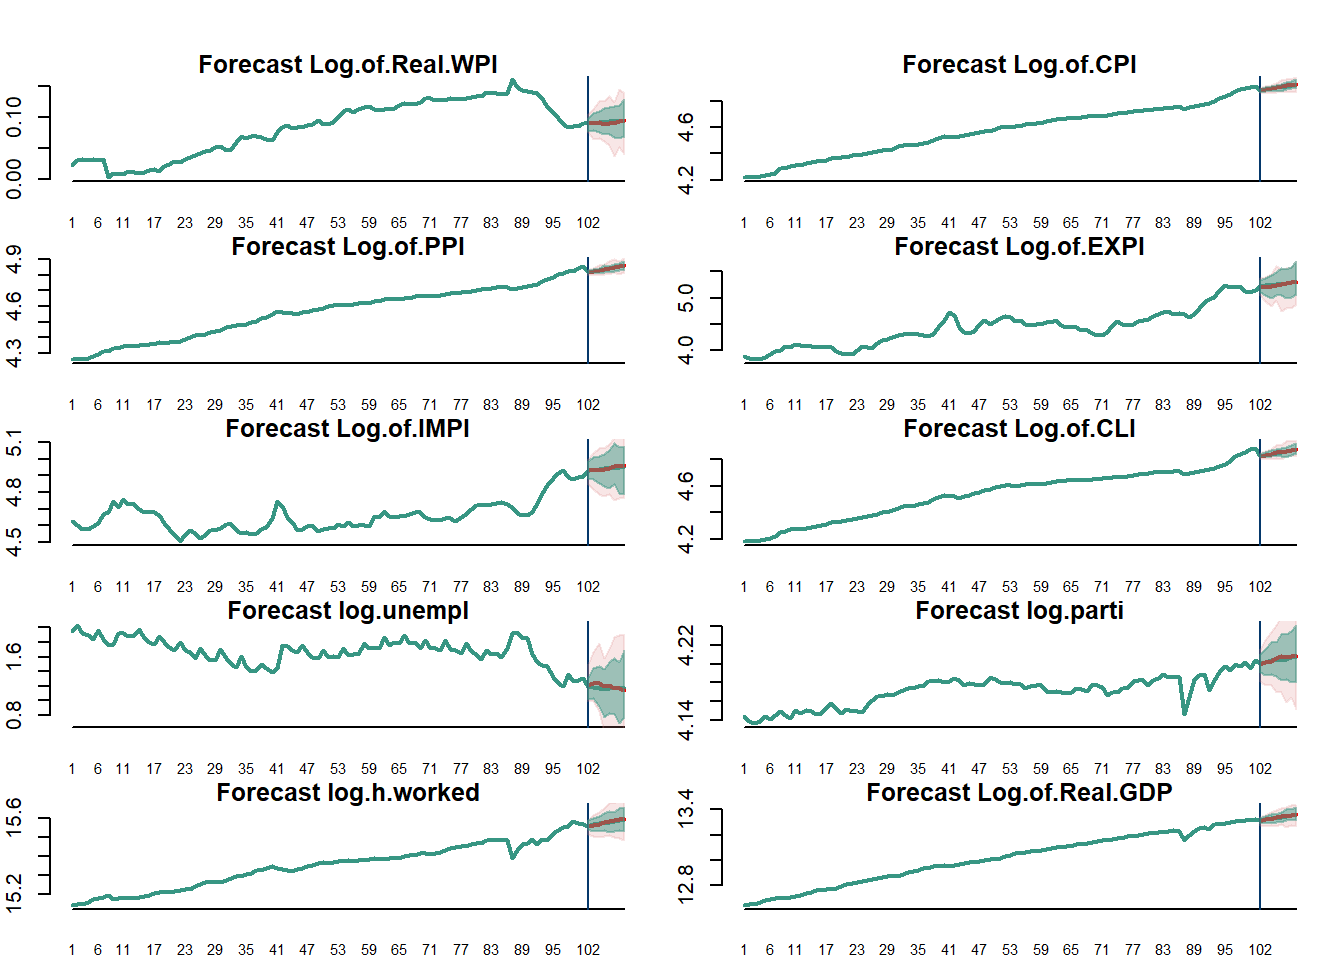
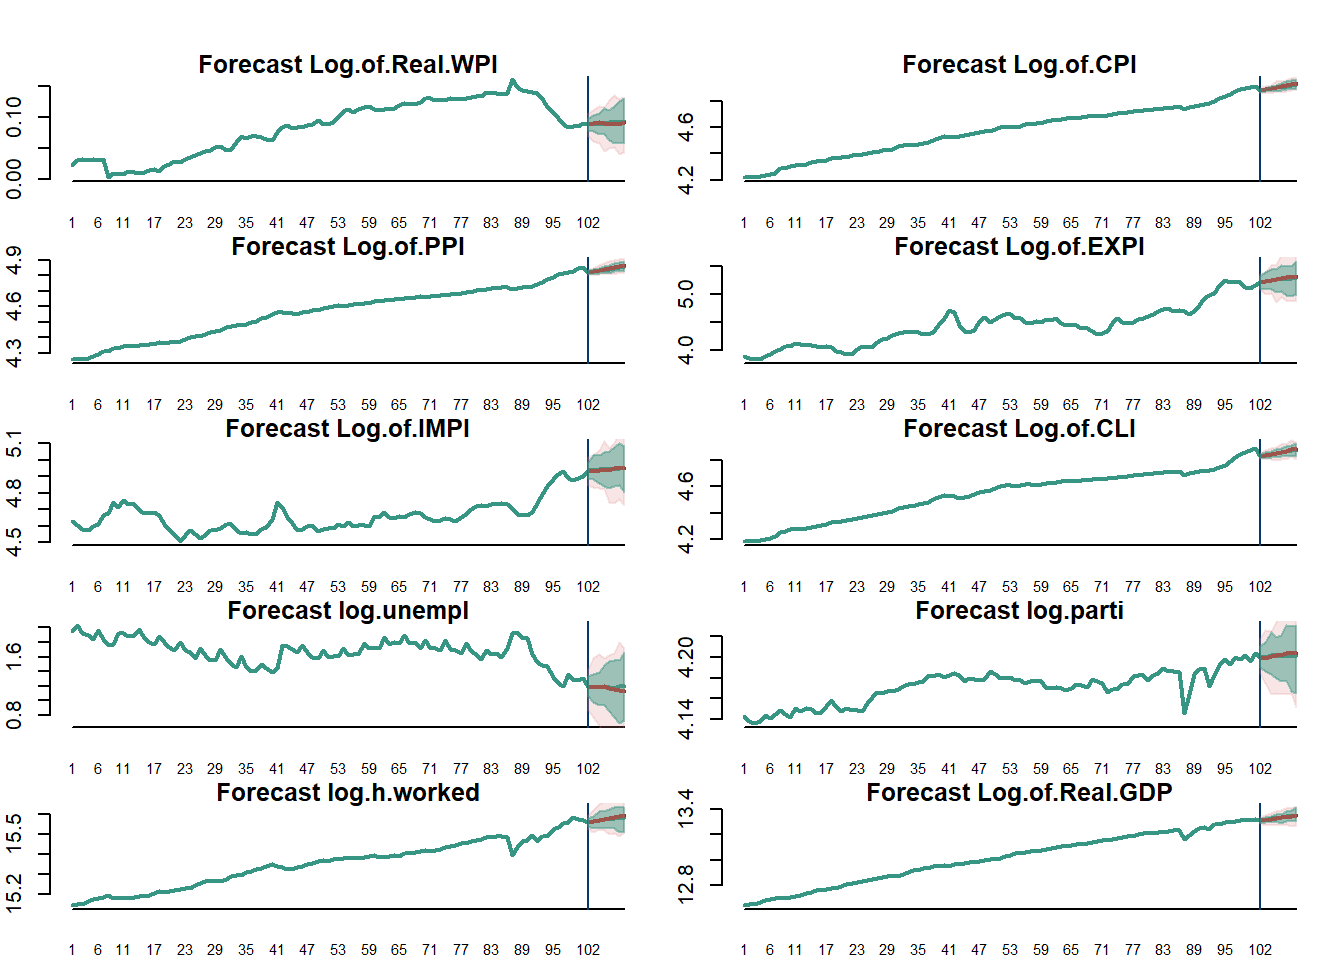
shorten

diff --git a/docs/index.html b/docs/index.html
@@ -840,20 +840,36 @@ p(\lambda_t|Y,X,A,\Sigma) \sim \operatorname{IG2}(N+\nu_{\lambda}, \nu_{\lambda}
 <span id="cb21-58"><a href="#cb21-58" aria-hidden="true" tabindex="-1"></a>  </span>
 <span id="cb21-59"><a href="#cb21-59" aria-hidden="true" tabindex="-1"></a>  <span class="co"># means = list(</span></span>
 <span id="cb21-60"><a href="#cb21-60" aria-hidden="true" tabindex="-1"></a>  <span class="co">#     A.posterior.means        = round(apply(A.posterior.draws[,,s], 1:2, mean),2),</span></span>
-<span id="cb21-61"><a href="#cb21-61" aria-hidden="true" tabindex="-1"></a>  <span class="co">#     #Sigma.posterior.means    = round(apply(Sigma.posterior.draws[,,s], 1:2, mean),2) ,</span></span>
-<span id="cb21-62"><a href="#cb21-62" aria-hidden="true" tabindex="-1"></a>  <span class="co">#     #lambda.means             = round(mean(lambda.posterior.draws[,s]),2),</span></span>
-<span id="cb21-63"><a href="#cb21-63" aria-hidden="true" tabindex="-1"></a>  <span class="co">#     #lambdasigma.means        = round(apply(Sigma.posterior.draws[,,s], 1:2, mean),2) * (round(mean(lambda.posterior.draws[,s]),2)* diag(2))</span></span>
+<span id="cb21-61"><a href="#cb21-61" aria-hidden="true" tabindex="-1"></a>  <span class="co">#     Sigma.posterior.means    = round(apply(Sigma.posterior.draws[,,s], 1:2, mean),2) ,</span></span>
+<span id="cb21-62"><a href="#cb21-62" aria-hidden="true" tabindex="-1"></a>  <span class="co">#     lambda.means             = round(mean(lambda.posterior.draws[,s]),2),</span></span>
+<span id="cb21-63"><a href="#cb21-63" aria-hidden="true" tabindex="-1"></a>  <span class="co">#     lambdasigma.means        = round(apply(Sigma.posterior.draws[,,s], 1:2, mean),2) * (round(mean(lambda.posterior.draws[,s]),2)* diag(2))</span></span>
 <span id="cb21-64"><a href="#cb21-64" aria-hidden="true" tabindex="-1"></a>  <span class="co"># )</span></span>
 <span id="cb21-65"><a href="#cb21-65" aria-hidden="true" tabindex="-1"></a>  <span class="co"># return(means)</span></span>
 <span id="cb21-66"><a href="#cb21-66" aria-hidden="true" tabindex="-1"></a>  <span class="co">#return(list(A.posterior.draws[,,s], Sigma.posterior.draws[,,s]))</span></span>
-<span id="cb21-67"><a href="#cb21-67" aria-hidden="true" tabindex="-1"></a>  <span class="fu">list</span>(<span class="at">A.posterior.draws =</span> A.posterior.draws, <span class="at">Sigma.posterior.draws =</span> Sigma.posterior.draws)</span>
+<span id="cb21-67"><a href="#cb21-67" aria-hidden="true" tabindex="-1"></a>  <span class="fu">return</span>(<span class="fu">list</span>(<span class="at">A.posterior.draws =</span> A.posterior.draws, <span class="at">Sigma.posterior.draws =</span> Sigma.posterior.draws))</span>
 <span id="cb21-68"><a href="#cb21-68" aria-hidden="true" tabindex="-1"></a></span>
 <span id="cb21-69"><a href="#cb21-69" aria-hidden="true" tabindex="-1"></a>}</span>
 <span id="cb21-70"><a href="#cb21-70" aria-hidden="true" tabindex="-1"></a></span>
 <span id="cb21-71"><a href="#cb21-71" aria-hidden="true" tabindex="-1"></a></span>
-<span id="cb21-72"><a href="#cb21-72" aria-hidden="true" tabindex="-1"></a><span class="co">#posterior_t(Y.bv, X.bv, 1, 100)</span></span>
-<span id="cb21-73"><a href="#cb21-73" aria-hidden="true" tabindex="-1"></a><span class="co">#wage_data_post_t &lt;- posterior_t(Y, X, 4, 100)</span></span></code><button title="Copy to Clipboard" class="code-copy-button"><i class="bi"></i></button></pre></div>
+<span id="cb21-72"><a href="#cb21-72" aria-hidden="true" tabindex="-1"></a>post.t.stats <span class="ot">&lt;-</span> <span class="fu">posterior_t</span>(Y.bv, X.bv, <span class="dv">1</span>, <span class="dv">100</span>)</span>
+<span id="cb21-73"><a href="#cb21-73" aria-hidden="true" tabindex="-1"></a></span>
+<span id="cb21-74"><a href="#cb21-74" aria-hidden="true" tabindex="-1"></a><span class="fu">round</span>(<span class="fu">apply</span>(post.t.stats<span class="sc">$</span>A.posterior.draws, <span class="dv">1</span><span class="sc">:</span><span class="dv">2</span>, mean),<span class="dv">2</span>)</span></code><button title="Copy to Clipboard" class="code-copy-button"><i class="bi"></i></button></pre></div>
 </details>
+<div class="cell-output cell-output-stdout">
+<pre><code>      [,1]  [,2]
+[1,]  0.07  0.08
+[2,]  0.99 -0.01
+[3,] -0.01  0.99</code></pre>
+</div>
+<details open="">
+<summary>Code</summary>
+<div class="sourceCode cell-code" id="cb23"><pre class="sourceCode r code-with-copy"><code class="sourceCode r"><span id="cb23-1"><a href="#cb23-1" aria-hidden="true" tabindex="-1"></a><span class="fu">round</span>(<span class="fu">apply</span>(post.t.stats<span class="sc">$</span>Sigma.posterior.draws, <span class="dv">1</span><span class="sc">:</span><span class="dv">2</span>, mean),<span class="dv">2</span>)</span></code><button title="Copy to Clipboard" class="code-copy-button"><i class="bi"></i></button></pre></div>
+</details>
+<div class="cell-output cell-output-stdout">
+<pre><code>     [,1] [,2]
+[1,] 0.91 0.13
+[2,] 0.13 0.79</code></pre>
+</div>
 </div>
 <p>One can observe, that the means represent exactly the expected values, whereas the variances lie a bit further apart from 1.</p>
 <section id="include-nu-sampling" class="level4">
@@ -861,7 +877,7 @@ p(\lambda_t|Y,X,A,\Sigma) \sim \operatorname{IG2}(N+\nu_{\lambda}, \nu_{\lambda}
 <div class="cell">
 <details open="">
 <summary>Code</summary>
-<div class="sourceCode cell-code" id="cb22"><pre class="sourceCode r code-with-copy"><code class="sourceCode r"><span id="cb22-1"><a href="#cb22-1" aria-hidden="true" tabindex="-1"></a><span class="co">#empty</span></span></code><button title="Copy to Clipboard" class="code-copy-button"><i class="bi"></i></button></pre></div>
+<div class="sourceCode cell-code" id="cb25"><pre class="sourceCode r code-with-copy"><code class="sourceCode r"><span id="cb25-1"><a href="#cb25-1" aria-hidden="true" tabindex="-1"></a><span class="co">#empty</span></span></code><button title="Copy to Clipboard" class="code-copy-button"><i class="bi"></i></button></pre></div>
 </details>
 </div>
 </section>
@@ -869,47 +885,42 @@ p(\lambda_t|Y,X,A,\Sigma) \sim \operatorname{IG2}(N+\nu_{\lambda}, \nu_{\lambda}
 <section id="real-wage-data-forecasts" class="level3">
 <h3 class="anchored" data-anchor-id="real-wage-data-forecasts">Real Wage data forecasts</h3>
 <div class="cell">
-<div class="cell-output-display">
-<p><img src="index_files/figure-html/Forecast plots-1.png" class="img-fluid" width="672"></p>
-</div>
-</div>
-<div class="cell">
 <details open="">
 <summary>Code</summary>
-<div class="sourceCode cell-code" id="cb23"><pre class="sourceCode r code-with-copy"><code class="sourceCode r"><span id="cb23-1"><a href="#cb23-1" aria-hidden="true" tabindex="-1"></a>forecasts <span class="ot">&lt;-</span> <span class="cf">function</span>(Y, A.posterior.draws, Sigma.posterior, h, S, p){</span>
-<span id="cb23-2"><a href="#cb23-2" aria-hidden="true" tabindex="-1"></a>  N <span class="ot">=</span> <span class="fu">ncol</span>(Y)</span>
-<span id="cb23-3"><a href="#cb23-3" aria-hidden="true" tabindex="-1"></a>  Y.h         <span class="ot">=</span> <span class="fu">array</span>(<span class="cn">NA</span>,<span class="fu">c</span>(h,N,S))</span>
-<span id="cb23-4"><a href="#cb23-4" aria-hidden="true" tabindex="-1"></a>  <span class="co">#point.f = matrix(NA, dim = c(h, N))  </span></span>
-<span id="cb23-5"><a href="#cb23-5" aria-hidden="true" tabindex="-1"></a>  <span class="co">#interval.f = array(NA, dim = c(h, N, 2)) </span></span>
-<span id="cb23-6"><a href="#cb23-6" aria-hidden="true" tabindex="-1"></a>  </span>
-<span id="cb23-7"><a href="#cb23-7" aria-hidden="true" tabindex="-1"></a>  <span class="cf">for</span> (s <span class="cf">in</span> <span class="dv">1</span><span class="sc">:</span>S){</span>
-<span id="cb23-8"><a href="#cb23-8" aria-hidden="true" tabindex="-1"></a>    x.Ti        <span class="ot">=</span> Y[(<span class="fu">nrow</span>(Y)<span class="sc">-</span>h<span class="sc">+</span><span class="dv">1</span>)<span class="sc">:</span><span class="fu">nrow</span>(Y),]</span>
-<span id="cb23-9"><a href="#cb23-9" aria-hidden="true" tabindex="-1"></a>    x.Ti        <span class="ot">=</span> x.Ti[p<span class="sc">:</span><span class="dv">1</span>,] </span>
-<span id="cb23-10"><a href="#cb23-10" aria-hidden="true" tabindex="-1"></a>  </span>
-<span id="cb23-11"><a href="#cb23-11" aria-hidden="true" tabindex="-1"></a></span>
-<span id="cb23-12"><a href="#cb23-12" aria-hidden="true" tabindex="-1"></a>    <span class="cf">for</span> (i <span class="cf">in</span> <span class="dv">1</span><span class="sc">:</span>h){</span>
-<span id="cb23-13"><a href="#cb23-13" aria-hidden="true" tabindex="-1"></a>      x.T         <span class="ot">=</span> <span class="fu">c</span>(<span class="dv">1</span>,<span class="fu">as.vector</span>(<span class="fu">t</span>(x.Ti)))</span>
-<span id="cb23-14"><a href="#cb23-14" aria-hidden="true" tabindex="-1"></a>      Y.h[i,,s]   <span class="ot">=</span> <span class="fu">rmvnorm</span>(<span class="dv">1</span>, <span class="at">mean =</span> x.T<span class="sc">%*%</span>A.posterior.draws[,,s], <span class="at">sigma=</span>Sigma.posterior[,,s])</span>
-<span id="cb23-15"><a href="#cb23-15" aria-hidden="true" tabindex="-1"></a>      </span>
-<span id="cb23-16"><a href="#cb23-16" aria-hidden="true" tabindex="-1"></a>      <span class="cf">if</span> (p<span class="sc">==</span><span class="dv">1</span>){</span>
-<span id="cb23-17"><a href="#cb23-17" aria-hidden="true" tabindex="-1"></a>        x.Ti        <span class="ot">=</span> Y.h[i,,s]</span>
-<span id="cb23-18"><a href="#cb23-18" aria-hidden="true" tabindex="-1"></a>      } <span class="cf">else</span> {</span>
-<span id="cb23-19"><a href="#cb23-19" aria-hidden="true" tabindex="-1"></a>        x.Ti        <span class="ot">=</span> <span class="fu">rbind</span>(Y.h[i,,s],x.Ti[<span class="dv">1</span><span class="sc">:</span>(p<span class="dv">-1</span>),])</span>
-<span id="cb23-20"><a href="#cb23-20" aria-hidden="true" tabindex="-1"></a>      }</span>
-<span id="cb23-21"><a href="#cb23-21" aria-hidden="true" tabindex="-1"></a>    }</span>
-<span id="cb23-22"><a href="#cb23-22" aria-hidden="true" tabindex="-1"></a>  }</span>
-<span id="cb23-23"><a href="#cb23-23" aria-hidden="true" tabindex="-1"></a>  </span>
-<span id="cb23-24"><a href="#cb23-24" aria-hidden="true" tabindex="-1"></a>  <span class="fu">list</span>(<span class="at">Y.h =</span> Y.h)</span>
-<span id="cb23-25"><a href="#cb23-25" aria-hidden="true" tabindex="-1"></a>}</span></code><button title="Copy to Clipboard" class="code-copy-button"><i class="bi"></i></button></pre></div>
+<div class="sourceCode cell-code" id="cb26"><pre class="sourceCode r code-with-copy"><code class="sourceCode r"><span id="cb26-1"><a href="#cb26-1" aria-hidden="true" tabindex="-1"></a>forecasts <span class="ot">&lt;-</span> <span class="cf">function</span>(Y, A.posterior.draws, Sigma.posterior, h, S, p){</span>
+<span id="cb26-2"><a href="#cb26-2" aria-hidden="true" tabindex="-1"></a>  N <span class="ot">=</span> <span class="fu">ncol</span>(Y)</span>
+<span id="cb26-3"><a href="#cb26-3" aria-hidden="true" tabindex="-1"></a>  Y.h         <span class="ot">=</span> <span class="fu">array</span>(<span class="cn">NA</span>,<span class="fu">c</span>(h,N,S))</span>
+<span id="cb26-4"><a href="#cb26-4" aria-hidden="true" tabindex="-1"></a>  <span class="co">#point.f = matrix(NA, dim = c(h, N))  </span></span>
+<span id="cb26-5"><a href="#cb26-5" aria-hidden="true" tabindex="-1"></a>  <span class="co">#interval.f = array(NA, dim = c(h, N, 2)) </span></span>
+<span id="cb26-6"><a href="#cb26-6" aria-hidden="true" tabindex="-1"></a>  </span>
+<span id="cb26-7"><a href="#cb26-7" aria-hidden="true" tabindex="-1"></a>  <span class="cf">for</span> (s <span class="cf">in</span> <span class="dv">1</span><span class="sc">:</span>S){</span>
+<span id="cb26-8"><a href="#cb26-8" aria-hidden="true" tabindex="-1"></a>    x.Ti        <span class="ot">=</span> Y[(<span class="fu">nrow</span>(Y)<span class="sc">-</span>h<span class="sc">+</span><span class="dv">1</span>)<span class="sc">:</span><span class="fu">nrow</span>(Y),]</span>
+<span id="cb26-9"><a href="#cb26-9" aria-hidden="true" tabindex="-1"></a>    x.Ti        <span class="ot">=</span> x.Ti[p<span class="sc">:</span><span class="dv">1</span>,] </span>
+<span id="cb26-10"><a href="#cb26-10" aria-hidden="true" tabindex="-1"></a>  </span>
+<span id="cb26-11"><a href="#cb26-11" aria-hidden="true" tabindex="-1"></a></span>
+<span id="cb26-12"><a href="#cb26-12" aria-hidden="true" tabindex="-1"></a>    <span class="cf">for</span> (i <span class="cf">in</span> <span class="dv">1</span><span class="sc">:</span>h){</span>
+<span id="cb26-13"><a href="#cb26-13" aria-hidden="true" tabindex="-1"></a>      x.T         <span class="ot">=</span> <span class="fu">c</span>(<span class="dv">1</span>,<span class="fu">as.vector</span>(<span class="fu">t</span>(x.Ti)))</span>
+<span id="cb26-14"><a href="#cb26-14" aria-hidden="true" tabindex="-1"></a>      Y.h[i,,s]   <span class="ot">=</span> <span class="fu">rmvnorm</span>(<span class="dv">1</span>, <span class="at">mean =</span> x.T<span class="sc">%*%</span>A.posterior.draws[,,s], <span class="at">sigma=</span>Sigma.posterior[,,s])</span>
+<span id="cb26-15"><a href="#cb26-15" aria-hidden="true" tabindex="-1"></a>      </span>
+<span id="cb26-16"><a href="#cb26-16" aria-hidden="true" tabindex="-1"></a>      <span class="cf">if</span> (p<span class="sc">==</span><span class="dv">1</span>){</span>
+<span id="cb26-17"><a href="#cb26-17" aria-hidden="true" tabindex="-1"></a>        x.Ti        <span class="ot">=</span> Y.h[i,,s]</span>
+<span id="cb26-18"><a href="#cb26-18" aria-hidden="true" tabindex="-1"></a>      } <span class="cf">else</span> {</span>
+<span id="cb26-19"><a href="#cb26-19" aria-hidden="true" tabindex="-1"></a>        x.Ti        <span class="ot">=</span> <span class="fu">rbind</span>(Y.h[i,,s],x.Ti[<span class="dv">1</span><span class="sc">:</span>(p<span class="dv">-1</span>),])</span>
+<span id="cb26-20"><a href="#cb26-20" aria-hidden="true" tabindex="-1"></a>      }</span>
+<span id="cb26-21"><a href="#cb26-21" aria-hidden="true" tabindex="-1"></a>    }</span>
+<span id="cb26-22"><a href="#cb26-22" aria-hidden="true" tabindex="-1"></a>  }</span>
+<span id="cb26-23"><a href="#cb26-23" aria-hidden="true" tabindex="-1"></a>  </span>
+<span id="cb26-24"><a href="#cb26-24" aria-hidden="true" tabindex="-1"></a>  <span class="fu">list</span>(<span class="at">Y.h =</span> Y.h)</span>
+<span id="cb26-25"><a href="#cb26-25" aria-hidden="true" tabindex="-1"></a>}</span></code><button title="Copy to Clipboard" class="code-copy-button"><i class="bi"></i></button></pre></div>
 </details>
 </div>
 <div class="cell">
 <details open="">
 <summary>Code</summary>
-<div class="sourceCode cell-code" id="cb24"><pre class="sourceCode r code-with-copy"><code class="sourceCode r"><span id="cb24-1"><a href="#cb24-1" aria-hidden="true" tabindex="-1"></a>post.results <span class="ot">&lt;-</span> <span class="fu">posterior</span>(Y, X, <span class="dv">4</span>, <span class="dv">100</span>)</span>
-<span id="cb24-2"><a href="#cb24-2" aria-hidden="true" tabindex="-1"></a>post.t.results <span class="ot">&lt;-</span> <span class="fu">posterior_t</span>(Y, X, <span class="dv">4</span>, <span class="dv">100</span>)</span>
-<span id="cb24-3"><a href="#cb24-3" aria-hidden="true" tabindex="-1"></a>forecasts_norm <span class="ot">&lt;-</span> <span class="fu">forecasts</span>(Y, post.results<span class="sc">$</span>A.posterior, post.results<span class="sc">$</span>Sigma.posterior, <span class="dv">8</span>, <span class="dv">100</span>, <span class="dv">4</span>)</span>
-<span id="cb24-4"><a href="#cb24-4" aria-hidden="true" tabindex="-1"></a>forecasts_t <span class="ot">&lt;-</span> <span class="fu">forecasts</span>(Y, post.t.results<span class="sc">$</span>A.posterior.draws, post.t.results<span class="sc">$</span>Sigma.posterior.draws, <span class="dv">8</span>, <span class="dv">100</span>, <span class="dv">4</span>)</span></code><button title="Copy to Clipboard" class="code-copy-button"><i class="bi"></i></button></pre></div>
+<div class="sourceCode cell-code" id="cb27"><pre class="sourceCode r code-with-copy"><code class="sourceCode r"><span id="cb27-1"><a href="#cb27-1" aria-hidden="true" tabindex="-1"></a>post.results <span class="ot">&lt;-</span> <span class="fu">posterior</span>(Y, X, <span class="dv">4</span>, <span class="dv">100</span>)</span>
+<span id="cb27-2"><a href="#cb27-2" aria-hidden="true" tabindex="-1"></a>post.t.results <span class="ot">&lt;-</span> <span class="fu">posterior_t</span>(Y, X, <span class="dv">4</span>, <span class="dv">100</span>)</span>
+<span id="cb27-3"><a href="#cb27-3" aria-hidden="true" tabindex="-1"></a>forecasts_norm <span class="ot">&lt;-</span> <span class="fu">forecasts</span>(Y, post.results<span class="sc">$</span>A.posterior, post.results<span class="sc">$</span>Sigma.posterior, <span class="dv">8</span>, <span class="dv">100</span>, <span class="dv">4</span>)</span>
+<span id="cb27-4"><a href="#cb27-4" aria-hidden="true" tabindex="-1"></a>forecasts_t <span class="ot">&lt;-</span> <span class="fu">forecasts</span>(Y, post.t.results<span class="sc">$</span>A.posterior.draws, post.t.results<span class="sc">$</span>Sigma.posterior.draws, <span class="dv">8</span>, <span class="dv">100</span>, <span class="dv">4</span>)</span></code><button title="Copy to Clipboard" class="code-copy-button"><i class="bi"></i></button></pre></div>
 </details>
 </div>
 <div class="cell">
